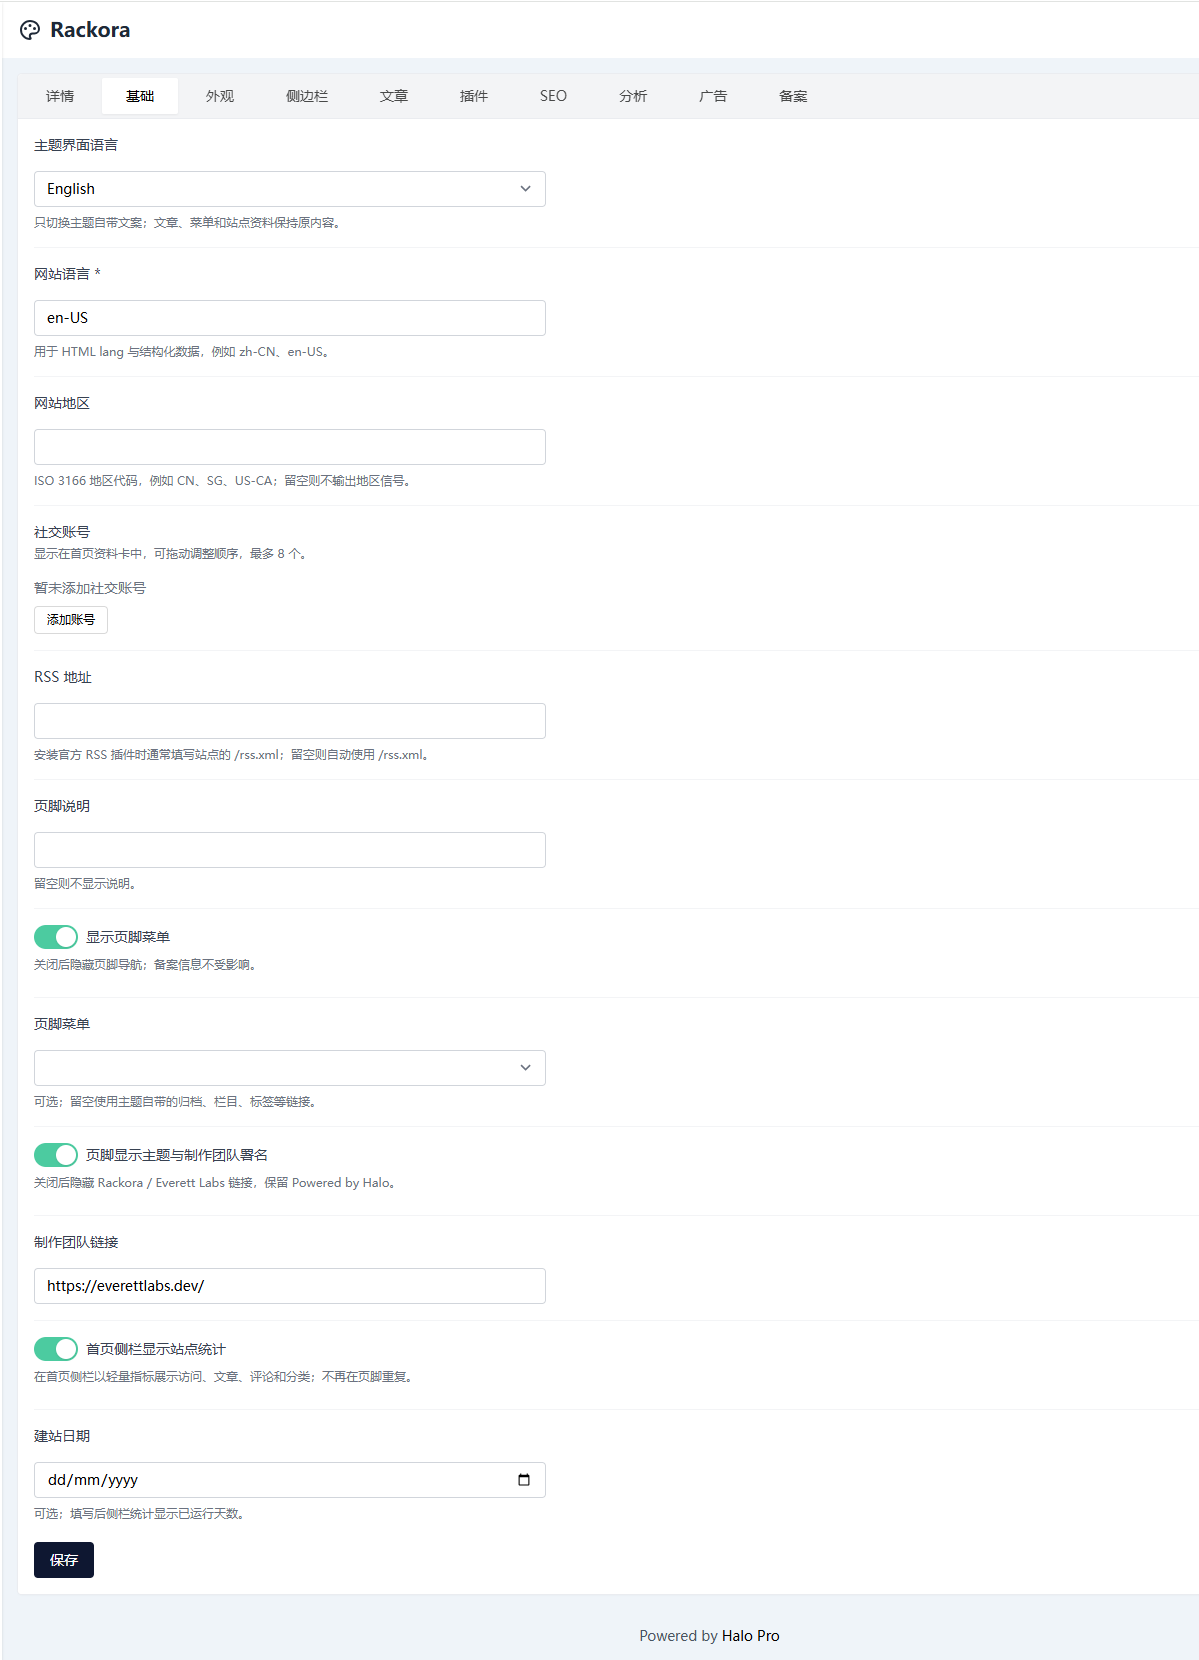
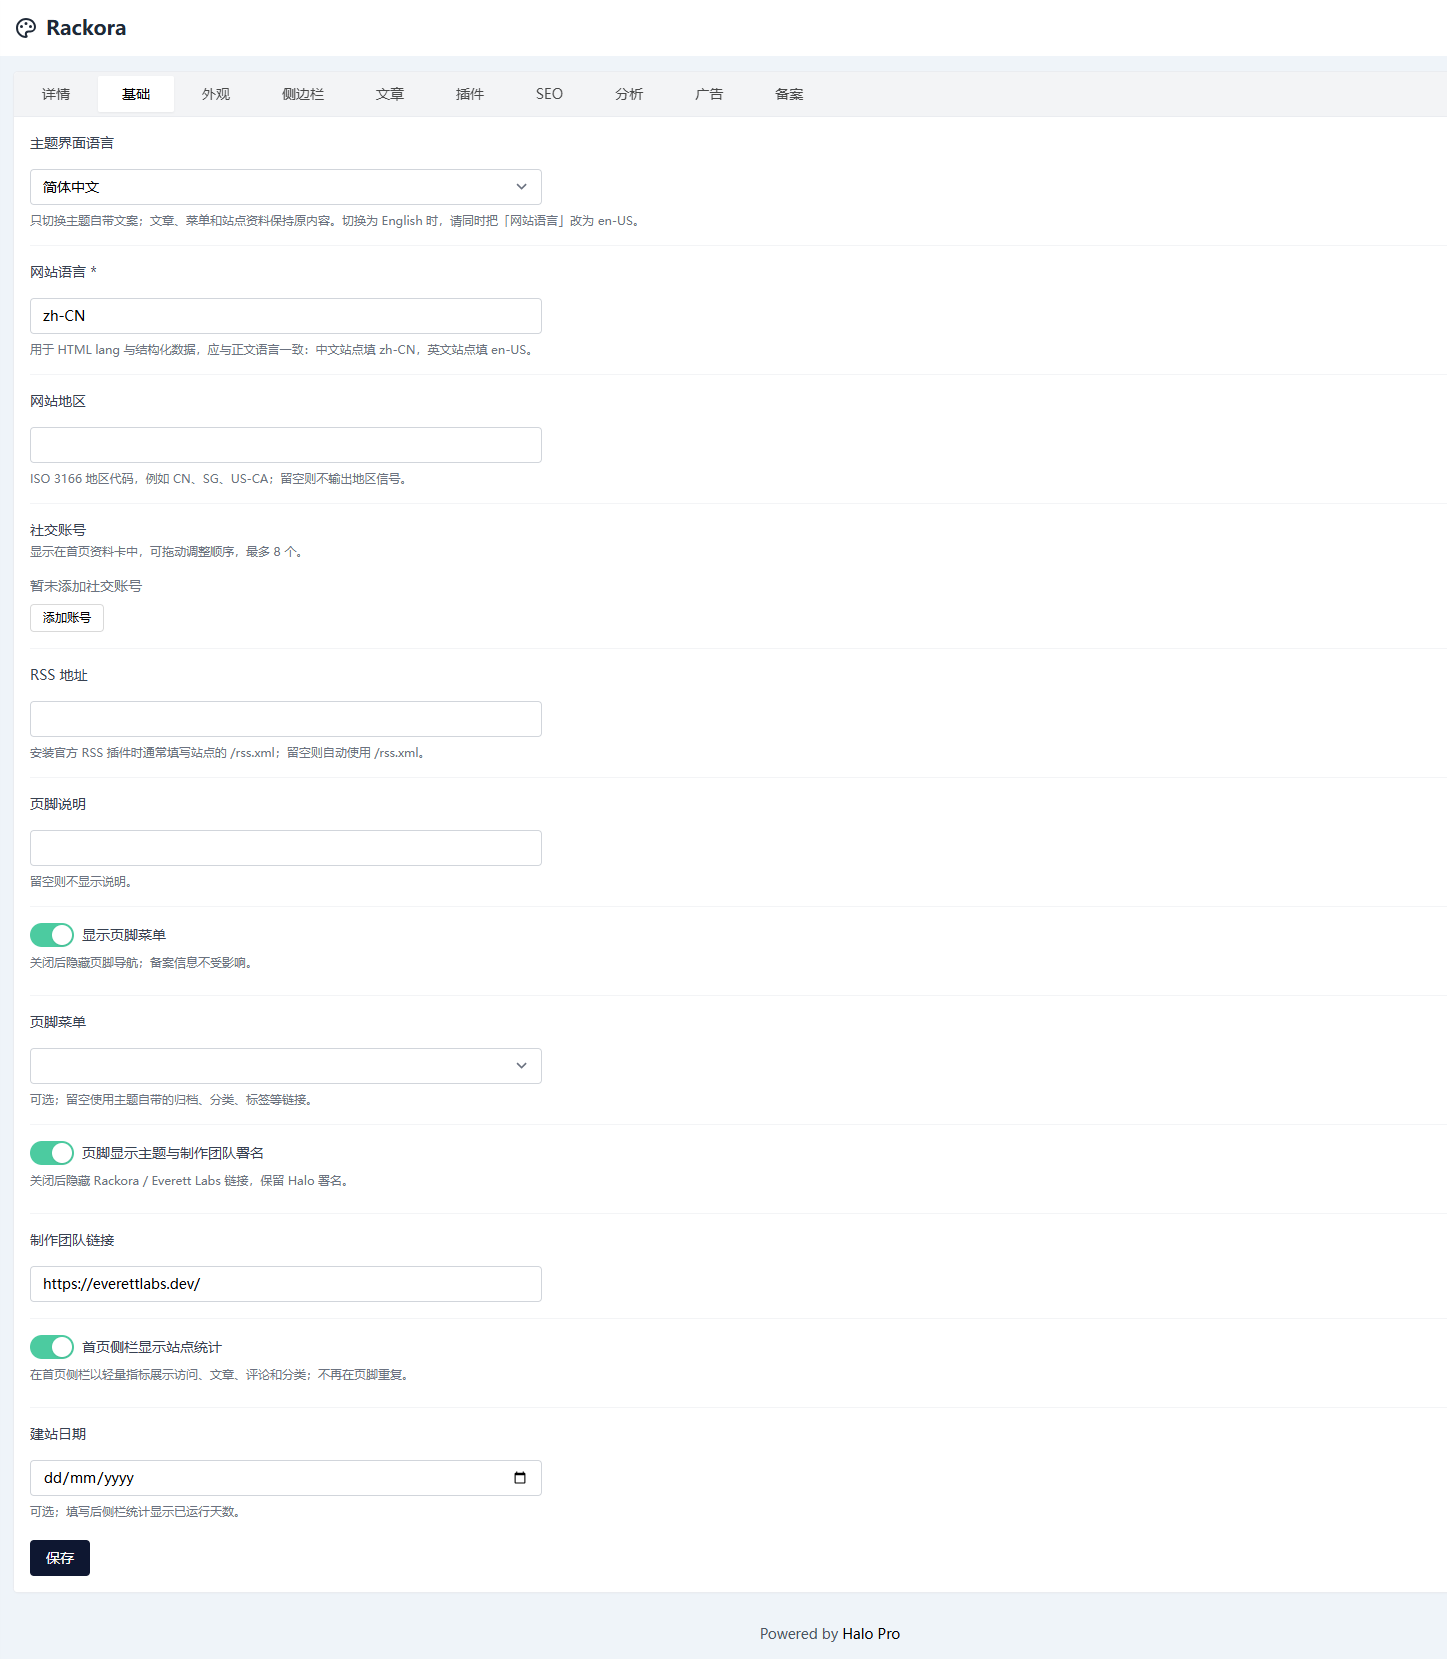
docs: 更新为中文默认界面截图
- 前台与 Console 截图更新为 0.9.7 中文默认界面，新增关于页截图，替换旧的英文独立页截图

- 修正长截图拼接造成的重复内容，并裁掉手机截图底部露出测试站域名的链接提示

- 主题详情截图移入设置折叠区，预览区与设置区均按两列排满

diff --git a/README.en.md b/README.en.md
@@ -19,17 +19,15 @@ Current release: `v0.9.7`
 
 ## Screenshots
 
-|                                                                                          Home (light)                                                                                           |                                                                                    Home (dark)                                                                                    |
-| :---------------------------------------------------------------------------------------------------------------------------------------------------------------------------------------------: | :-------------------------------------------------------------------------------------------------------------------------------------------------------------------------------: |
-|                  <img src="https://raw.githubusercontent.com/everett7623/halo-theme-rackora/main/docs/screenshots/home-light.png" alt="Home page in light mode" width="600" />                  |            <img src="https://raw.githubusercontent.com/everett7623/halo-theme-rackora/main/docs/screenshots/home-dark.png" alt="Home page in dark mode" width="600" />            |
-|                                                                                            **Post**                                                                                             |                                                                                    **Mobile**                                                                                     |
-| <img src="https://raw.githubusercontent.com/everett7623/halo-theme-rackora/main/docs/screenshots/post.png" alt="Post page with table of contents, share bar, and license notice" width="600" /> |            <img src="https://raw.githubusercontent.com/everett7623/halo-theme-rackora/main/docs/screenshots/home-mobile.png" alt="Home page on mobile" width="240" />             |
-|                                                                                          **Archives**                                                                                           |                                                                                   **Category**                                                                                    |
-|                        <img src="https://raw.githubusercontent.com/everett7623/halo-theme-rackora/main/docs/screenshots/archives.png" alt="Archives page" width="600" />                        |                 <img src="https://raw.githubusercontent.com/everett7623/halo-theme-rackora/main/docs/screenshots/category.png" alt="Category page" width="600" />                 |
-|                                                                                         **Categories**                                                                                          |                                                                                     **Tags**                                                                                      |
-|                      <img src="https://raw.githubusercontent.com/everett7623/halo-theme-rackora/main/docs/screenshots/categories.png" alt="Category index" width="600" />                       |                     <img src="https://raw.githubusercontent.com/everett7623/halo-theme-rackora/main/docs/screenshots/tags.png" alt="Tag index" width="600" />                     |
-|                                                                                            **Page**                                                                                             |                                                                             **Console theme details**                                                                             |
-|                           <img src="https://raw.githubusercontent.com/everett7623/halo-theme-rackora/main/docs/screenshots/page.png" alt="Single page" width="600" />                           | <img src="https://raw.githubusercontent.com/everett7623/halo-theme-rackora/main/docs/screenshots/console-theme-detail.png" alt="Theme details in the Halo Console" width="600" /> |
+|                                                                                          Home (light)                                                                                           |                                                                         Home (dark)                                                                         |
+| :---------------------------------------------------------------------------------------------------------------------------------------------------------------------------------------------: | :---------------------------------------------------------------------------------------------------------------------------------------------------------: |
+|                  <img src="https://raw.githubusercontent.com/everett7623/halo-theme-rackora/main/docs/screenshots/home-light.png" alt="Home page in light mode" width="600" />                  | <img src="https://raw.githubusercontent.com/everett7623/halo-theme-rackora/main/docs/screenshots/home-dark.png" alt="Home page in dark mode" width="600" /> |
+|                                                                                            **Post**                                                                                             |                                                                         **Mobile**                                                                          |
+| <img src="https://raw.githubusercontent.com/everett7623/halo-theme-rackora/main/docs/screenshots/post.png" alt="Post page with table of contents, share bar, and license notice" width="600" /> | <img src="https://raw.githubusercontent.com/everett7623/halo-theme-rackora/main/docs/screenshots/home-mobile.png" alt="Home page on mobile" width="240" />  |
+|                                                                                          **Archives**                                                                                           |                                                                          **About**                                                                          |
+|                        <img src="https://raw.githubusercontent.com/everett7623/halo-theme-rackora/main/docs/screenshots/archives.png" alt="Archives page" width="600" />                        |         <img src="https://raw.githubusercontent.com/everett7623/halo-theme-rackora/main/docs/screenshots/about.png" alt="About page" width="600" />         |
+|                                                                                          **Category**                                                                                           |                                                                          **Tags**                                                                           |
+|                        <img src="https://raw.githubusercontent.com/everett7623/halo-theme-rackora/main/docs/screenshots/category.png" alt="Category page" width="600" />                        |          <img src="https://raw.githubusercontent.com/everett7623/halo-theme-rackora/main/docs/screenshots/tags.png" alt="Tag index" width="600" />          |
 
 ## Who It Is For
 
@@ -123,19 +121,19 @@ The settings page is organized into nine groups, each with safe defaults:
 Legacy `content.*` and `stats.*` configuration keys remain readable after upgrades.
 
 <details>
-<summary>View every settings group</summary>
+<summary>View theme details and every settings group</summary>
 
-|                                                                              Basic                                                                               |                                                                             Appearance                                                                             |
-| :--------------------------------------------------------------------------------------------------------------------------------------------------------------: | :----------------------------------------------------------------------------------------------------------------------------------------------------------------: |
-|     <img src="https://raw.githubusercontent.com/everett7623/halo-theme-rackora/main/docs/screenshots/settings-basic.png" alt="Basic settings" width="600" />     | <img src="https://raw.githubusercontent.com/everett7623/halo-theme-rackora/main/docs/screenshots/settings-appearance.png" alt="Appearance settings" width="600" /> |
-|                                                                           **Sidebar**                                                                            |                                                                              **Post**                                                                              |
-|   <img src="https://raw.githubusercontent.com/everett7623/halo-theme-rackora/main/docs/screenshots/settings-sidebar.png" alt="Sidebar settings" width="600" />   |       <img src="https://raw.githubusercontent.com/everett7623/halo-theme-rackora/main/docs/screenshots/settings-post.png" alt="Post settings" width="600" />       |
-|                                                                           **Plugins**                                                                            |                                                                              **SEO**                                                                               |
-|   <img src="https://raw.githubusercontent.com/everett7623/halo-theme-rackora/main/docs/screenshots/settings-plugins.png" alt="Plugin settings" width="600" />    |        <img src="https://raw.githubusercontent.com/everett7623/halo-theme-rackora/main/docs/screenshots/settings-seo.png" alt="SEO settings" width="600" />        |
-|                                                                          **Analytics**                                                                           |                                                                              **Ads**                                                                               |
-| <img src="https://raw.githubusercontent.com/everett7623/halo-theme-rackora/main/docs/screenshots/settings-analytics.png" alt="Analytics settings" width="600" /> |        <img src="https://raw.githubusercontent.com/everett7623/halo-theme-rackora/main/docs/screenshots/settings-ads.png" alt="Ad settings" width="600" />         |
-|                                                                            **Filing**                                                                            |                                                                                                                                                                    |
-|    <img src="https://raw.githubusercontent.com/everett7623/halo-theme-rackora/main/docs/screenshots/settings-filing.png" alt="Filing settings" width="600" />    |                                                                                                                                                                    |
+|                                                                                   Theme details                                                                                   |                                                                              Basic                                                                               |
+| :-------------------------------------------------------------------------------------------------------------------------------------------------------------------------------: | :--------------------------------------------------------------------------------------------------------------------------------------------------------------: |
+| <img src="https://raw.githubusercontent.com/everett7623/halo-theme-rackora/main/docs/screenshots/console-theme-detail.png" alt="Theme details in the Halo Console" width="600" /> |     <img src="https://raw.githubusercontent.com/everett7623/halo-theme-rackora/main/docs/screenshots/settings-basic.png" alt="Basic settings" width="600" />     |
+|                                                                                  **Appearance**                                                                                   |                                                                           **Sidebar**                                                                            |
+|        <img src="https://raw.githubusercontent.com/everett7623/halo-theme-rackora/main/docs/screenshots/settings-appearance.png" alt="Appearance settings" width="600" />         |   <img src="https://raw.githubusercontent.com/everett7623/halo-theme-rackora/main/docs/screenshots/settings-sidebar.png" alt="Sidebar settings" width="600" />   |
+|                                                                                     **Post**                                                                                      |                                                                           **Plugins**                                                                            |
+|              <img src="https://raw.githubusercontent.com/everett7623/halo-theme-rackora/main/docs/screenshots/settings-post.png" alt="Post settings" width="600" />               |   <img src="https://raw.githubusercontent.com/everett7623/halo-theme-rackora/main/docs/screenshots/settings-plugins.png" alt="Plugin settings" width="600" />    |
+|                                                                                      **SEO**                                                                                      |                                                                          **Analytics**                                                                           |
+|               <img src="https://raw.githubusercontent.com/everett7623/halo-theme-rackora/main/docs/screenshots/settings-seo.png" alt="SEO settings" width="600" />                | <img src="https://raw.githubusercontent.com/everett7623/halo-theme-rackora/main/docs/screenshots/settings-analytics.png" alt="Analytics settings" width="600" /> |
+|                                                                                      **Ads**                                                                                      |                                                                            **Filing**                                                                            |
+|                <img src="https://raw.githubusercontent.com/everett7623/halo-theme-rackora/main/docs/screenshots/settings-ads.png" alt="Ad settings" width="600" />                |    <img src="https://raw.githubusercontent.com/everett7623/halo-theme-rackora/main/docs/screenshots/settings-filing.png" alt="Filing settings" width="600" />    |
 
 Analytics and ads are off by default; these screenshots show both groups after enabling them to reveal every option.
 
